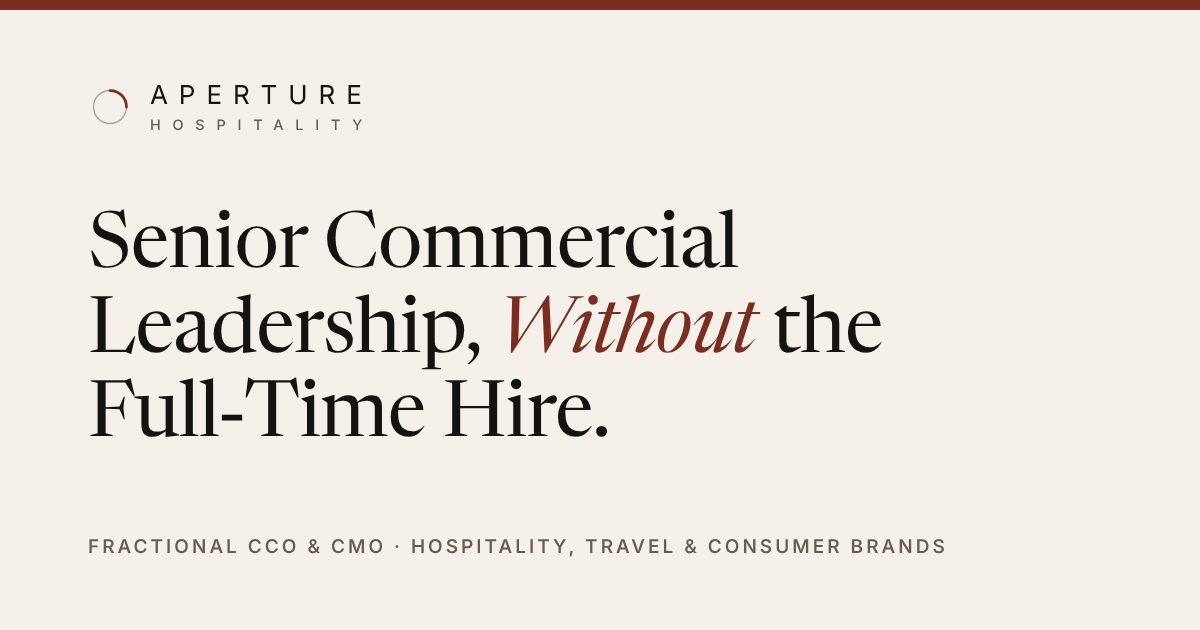
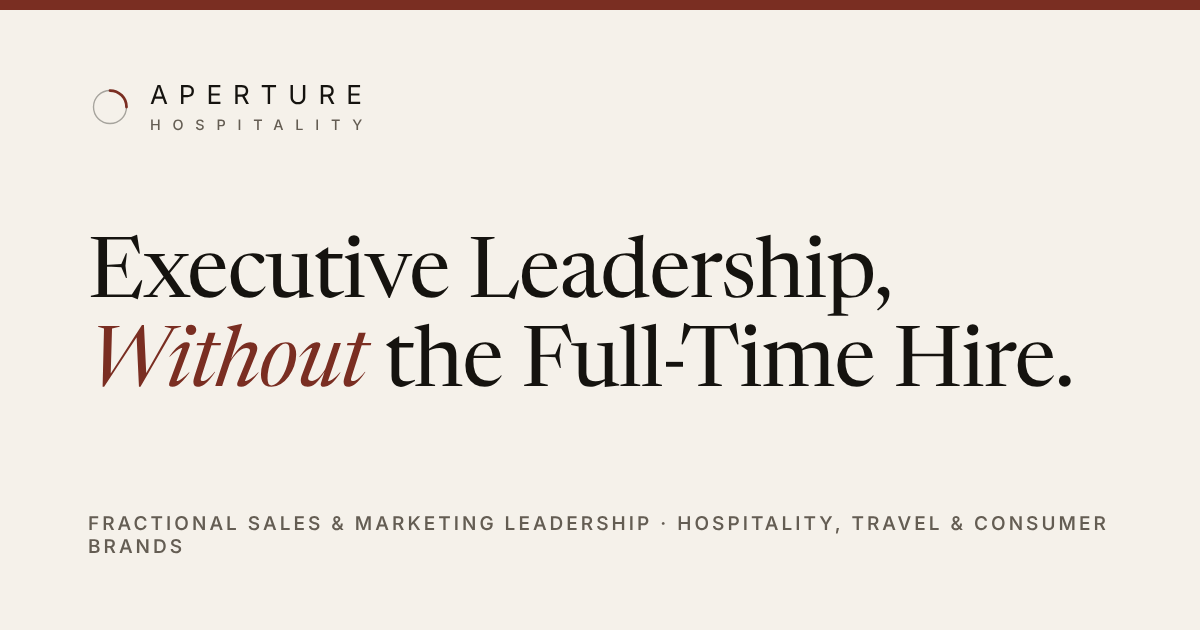
Method page, brand & marketing offers, executive headline
- New /method page and homepage section: Diagnose, Brand Foundation,
  Marketing Plan, Commercial Plan, Operating Rhythm; "Method" in nav;
  /how-we-work now redirects to /method
- New engagement: Brand & Marketing Diagnostic (form option, path 4)
- New service: Brand & Marketing Leadership
- Headline: "Executive Leadership, Without the Full-Time Hire."; kicker,
  title, footer and share image now say sales and marketing leadership

Claude-Session: https://claude.ai/code/session_01RkhWHDrwQDbcSb66oaDfqG

Changed region(s): [[0.0617, 0.3317, 0.8942, 0.6937], [0.0617, 0.8143, 0.925, 0.8746]]

diff --git a/app/page.tsx b/app/page.tsx
@@ -5,6 +5,7 @@ import IntakeForm from '@/components/IntakeForm'
 import BrandMarquee from '@/components/BrandMarquee'
 import DirectLinks from '@/components/DirectLinks'
 import { site } from '@/lib/site'
+import { method } from '@/lib/method'
 
 const who = [
   { t: 'Hospitality & Travel', d: 'Hotels, luxury rentals, travel distribution and experiences, especially growth-stage and PE-backed.' },
@@ -14,6 +15,7 @@ const who = [
 
 const services = [
   { t: 'Commercial Strategy & GTM', d: 'Positioning, segmentation, channel and distribution strategy, pricing architecture, launch plans.' },
+  { t: 'Brand & Marketing Leadership', d: 'Positioning, brand building, demand generation, agency management and the marketing team, measured against revenue.' },
   { t: 'Revenue & Performance Turnarounds', d: 'Commercial diagnostics, market share and RevPAR gaps, unit economics, P&L and operating cadences.' },
   { t: 'Partnerships & Distribution', d: 'Co-branded and brand-funded programs, retail and trade activation, strategic alliances.' },
   { t: 'Models & Investor Readiness', d: 'Business cases, valuations, scenario models, fundraising and board materials, AI-enabled analytics.' },
@@ -111,7 +113,7 @@ const paths = [
   { lead: 'I need a senior leader', em: 'running marketing.', d: 'A fractional CMO: brand, demand and the marketing team, owned and measured against revenue.', meta: 'Fractional CMO · Retainer', href: '/contact?engagement=fractional' },
   { lead: 'I need a senior leader', em: 'running sales.', d: 'A fractional CCO: sales, channels, partnerships and pipeline, with board-level reporting.', meta: 'Fractional CCO · Retainer', href: '/contact?engagement=fractional' },
   { lead: 'I need to understand why', em: 'my business stopped growing.', d: 'A Commercial Diagnostic: where growth is stuck, the three priorities that matter and a 90-day plan.', meta: '4–6 weeks · Fixed fee', href: '/contact?engagement=diagnostic' },
-  { lead: 'I need to understand why my brand', em: 'isn’t connecting with consumers.', d: 'A Brand & Marketing Diagnostic: positioning, audience and message, tested against what customers actually do.', meta: '4–6 weeks · Fixed fee', href: '/contact?engagement=diagnostic' },
+  { lead: 'I need to understand why my brand', em: 'isn’t connecting with consumers.', d: 'A Brand & Marketing Diagnostic: positioning, audience and message, tested against what customers actually do.', meta: '4–6 weeks · Fixed fee', href: '/contact?engagement=brand' },
   { lead: 'I’m not sure yet.', em: 'Help me figure it out.', d: 'Tell us where things stand and we’ll recommend the right place to start.', meta: 'Start a conversation', href: '/contact' },
 ]
 
@@ -130,9 +132,9 @@ export default function Home() {
         <section className="hero">
           <div className="container hero__grid hero__grid--brand">
             <div className="hero__copy">
-              <p className="label label--accent">Fractional Commercial Leadership · Hospitality, Travel &amp; Consumer Brands</p>
-              <h1 className="display">
-                Senior Commercial Leadership, <em>Without</em> the <span style={{ whiteSpace: 'nowrap' }}>Full-Time</span> Hire.
+              <p className="label label--accent">Fractional Sales &amp; Marketing Leadership · Hospitality, Travel &amp; Consumer Brands</p>
+              <h1 className="display hero__h1">
+                <span className="hero__keep">Executive Leadership,</span> <br className="hero__br" /><em>Without</em> the <span style={{ whiteSpace: 'nowrap' }}>Full-Time</span> Hire.
               </h1>
               <p className="hero__sub">
                 Aperture works with CEOs, founders and boards as a fractional Chief Commercial or Marketing Officer,
@@ -215,6 +217,34 @@ export default function Home() {
                 </li>
               ))}
             </ul>
+          </div>
+        </section>
+
+        {/* Method */}
+        <section className="section" id="method" aria-labelledby="method-h">
+          <div className="container">
+            <div className="reveal sec-head">
+              <span className="eyebrow">Our Method</span>
+              <h2 id="method-h" className="h2">Diagnosis Before <em>Deliverable</em></h2>
+              <p className="lede sec-sub">
+                Five steps, in order: find the real problem, build the brand before the marketing plan and the marketing
+                plan before the sales targets, then run it on a weekly rhythm.
+              </p>
+            </div>
+            <ol className="steps reveal">
+              {method.map((m) => (
+                <li key={m.n}>
+                  <Link href={`/method#step-${m.n}`}>
+                    <span className="label num">{m.n}</span>
+                    <span className="steps__t">{m.t}</span>
+                    <span className="steps__d">{m.short}</span>
+                  </Link>
+                </li>
+              ))}
+            </ol>
+            <div className="reveal" style={{ marginTop: '2.25rem' }}>
+              <Link className="link" href="/method">See the full method</Link>
+            </div>
           </div>
         </section>
 

diff --git a/app/method/page.tsx b/app/method/page.tsx
@@ -1,0 +1,97 @@
+import type { Metadata } from 'next'
+import Link from 'next/link'
+import Nav from '@/components/Nav'
+import Footer from '@/components/Footer'
+import ContactCTA from '@/components/ContactCTA'
+import { method, methodFit } from '@/lib/method'
+
+export const metadata: Metadata = {
+  title: 'Our Method',
+  description:
+    'The Aperture Method: diagnose, brand foundation, marketing plan, commercial plan and operating rhythm. Diagnosis before deliverable.',
+  alternates: { canonical: '/method' },
+}
+
+export default function Method() {
+  return (
+    <>
+      <Nav />
+      <main id="main">
+        <section className="hero">
+          <div className="container">
+            <p className="label label--accent" style={{ letterSpacing: '.16em', margin: '0 0 2rem' }}>The Aperture Method</p>
+            <h1 className="display" style={{ maxWidth: '18ch' }}>
+              Diagnosis Before <em>Deliverable.</em>
+            </h1>
+            <p className="hero__sub" style={{ maxWidth: '40rem' }}>
+              Five steps, in order. We find the real problem first, build the brand before the marketing plan and the
+              marketing plan before the sales targets, then put a rhythm in place that keeps the business on the number.
+            </p>
+            <ol className="steps steps--index">
+              {method.map((m) => (
+                <li key={m.n}>
+                  <a href={`#step-${m.n}`}>
+                    <span className="label num">{m.n}</span>
+                    <span className="steps__t">{m.t}</span>
+                  </a>
+                </li>
+              ))}
+            </ol>
+          </div>
+        </section>
+
+        {method.map((m) => (
+          <section className="section" id={`step-${m.n}`} key={m.n} aria-labelledby={`h-${m.n}`}>
+            <div className="container rail">
+              <div className="rail__head reveal">
+                <span className="eyebrow">Step {m.n}</span>
+                <h2 id={`h-${m.n}`} className="h2">{m.t}</h2>
+                <p className="lede" style={{ marginTop: '1.25rem' }}>{m.short}</p>
+              </div>
+              <div className="reveal mstep">
+                <p className="mstep__why">{m.why}</p>
+                <div className="mstep__grid">
+                  <div>
+                    <span className="label">What we do</span>
+                    <ul>
+                      {m.do.map((d) => (
+                        <li key={d}>{d}</li>
+                      ))}
+                    </ul>
+                  </div>
+                  <div className="mstep__get">
+                    <span className="label label--accent">What you get</span>
+                    <p>{m.get}</p>
+                  </div>
+                </div>
+              </div>
+            </div>
+          </section>
+        ))}
+
+        <section className="section" aria-labelledby="fit-h">
+          <div className="container">
+            <div className="reveal sec-head">
+              <span className="eyebrow">Engagements</span>
+              <h2 id="fit-h" className="h2">Where Each Engagement Fits</h2>
+            </div>
+            <ul className="principles reveal">
+              {methodFit.map((f) => (
+                <li key={f.e}>
+                  <span className="label label--accent">{f.s}</span>
+                  <h3 className="h3">{f.e}</h3>
+                  <p>{f.d}</p>
+                </li>
+              ))}
+            </ul>
+            <div className="reveal" style={{ marginTop: '2.5rem' }}>
+              <Link className="link" href="/#start">Choose where to start</Link>
+            </div>
+          </div>
+        </section>
+        <ContactCTA />
+      </main>
+      <Footer />
+    </>
+  )
+}

diff --git a/lib/method.ts b/lib/method.ts
@@ -1,0 +1,49 @@
+// The Aperture Method: five steps, diagnosis before deliverable.
+export const method = [
+  {
+    n: '01',
+    t: 'Diagnose',
+    short: 'Find the real problem before proposing the solution.',
+    why: 'Most growth problems are misdiagnosed. A weak quarter gets a new campaign when the real issue is pricing, channel or a brand nobody can explain. We start by finding the higher-order problem.',
+    do: ['Leadership and team interviews', 'P&L, funnel and channel performance review', 'Customer, competitor and category scan', 'Brand and message audit'],
+    get: 'A diagnostic readout: where growth is stuck, the three priorities that matter and a 90-day action plan.',
+  },
+  {
+    n: '02',
+    t: 'Brand Foundation',
+    short: 'Decide who you are for and why you win.',
+    why: 'A marketing plan cannot come before a brand plan. Without a clear position, every channel tells a different story and spend works against itself.',
+    do: ['Target audiences and the jobs you do for them', 'Positioning, brand promise and proof points', 'Messaging hierarchy and brand standards', 'The story told for customers, partners and your own team'],
+    get: 'A brand foundation the whole business can sell from.',
+  },
+  {
+    n: '03',
+    t: 'Marketing Plan',
+    short: 'Turn the brand into demand.',
+    why: 'Marketing earns its budget when it is planned against revenue, not activity. We build the plan backward from the number.',
+    do: ['Audience priorities and channel mix', 'Campaign calendar, content and creative', 'Agency and partner roles', 'Budget tied to revenue targets and KPIs'],
+    get: 'A 12-month marketing plan and budget, with the KPIs that prove it is working.',
+  },
+  {
+    n: '04',
+    t: 'Commercial Plan',
+    short: 'Turn demand into revenue.',
+    why: 'Demand only matters if sales, channels and pricing are built to convert it. This is where the plan meets the P&L.',
+    do: ['Sales targets, segments and territories', 'Channel, distribution and partnership strategy', 'Pricing architecture and margin', 'Sales tools and the team playbook'],
+    get: 'A commercial plan, pricing architecture and a playbook the team can execute.',
+  },
+  {
+    n: '05',
+    t: 'Operating Rhythm',
+    short: 'Make it run, and measure it.',
+    why: 'Plans fail in week six, not week one. A weekly rhythm keeps the team on the number and surfaces problems while they are still cheap to fix.',
+    do: ['Weekly dashboard and KPIs', 'Meeting cadence and clear owners', 'Hiring, agency and partner management', 'Board and investor reporting'],
+    get: 'An operating cadence that keeps working after we step back.',
+  },
+] as const
+
+export const methodFit = [
+  { e: 'Commercial or Brand & Marketing Diagnostic', s: 'Step 01', d: 'A fixed-fee read on the real problem, the priorities and a 90-day plan.' },
+  { e: 'Fractional CCO / CMO', s: 'Steps 02 to 05', d: 'Senior leadership that builds the plans and runs the rhythm with your team.' },
+  { e: 'Revenue Sprint', s: 'One step, one outcome', d: 'A focused push on a single step: a pricing reset, a launch or a turnaround plan.' },
+] as const

diff --git a/app/components.css b/app/components.css
@@ -39,6 +39,7 @@
 .caps{border-top:1px solid var(--ink);margin:0;padding:0;list-style:none;display:grid}
 @media (min-width:700px){.caps{grid-template-columns:1fr 1fr;column-gap:2.5rem}}
 .caps li{border-bottom:1px solid var(--rule);padding:1.5rem 0}
+@media (min-width:700px){.caps li:last-child:nth-child(odd){grid-column:1/-1}}
 .caps__t{font-family:var(--serif);margin:0 0 .5rem;font-size:1.3rem;font-weight:450;line-height:1.2}
 .caps p{margin:0;font-size:1rem}
 
@@ -238,3 +239,26 @@
 @media (max-width:699px){.paths__head .label:last-child{display:none}.path{grid-template-columns:1fr auto;gap:1rem}.path__meta{grid-column:1;grid-row:2}.path__go{grid-column:2;grid-row:1/span 2;width:44px;height:44px}}
 
 .hero__grid--brand .hero__sub{max-width:40rem}
+
+/* Aperture: method steps */
+.steps{border-top:1px solid var(--ink);margin:0;padding:0;list-style:none;display:grid;counter-reset:none}
+.steps li{border-bottom:1px solid var(--rule)}
+.steps a{display:grid;gap:.35rem;padding:1.25rem 0;text-decoration:none;color:inherit}
+.steps__t{font-family:var(--serif);color:var(--ink);font-size:1.4rem;line-height:1.15;transition:color .2s}
+.steps__d{color:var(--ink-2);font-size:.9375rem}
+.steps a:hover .steps__t{color:var(--accent)}
+@media (min-width:1000px){.steps{grid-template-columns:repeat(5,1fr)}.steps li{border-bottom:0;padding:0 1.5rem 0 0}.steps li+li{border-left:1px solid var(--rule);padding-left:1.5rem}.steps a{padding:1.75rem 0 .5rem}}
+.steps--index{margin-top:2.5rem}
+.steps--index a{padding:1rem 0}
+.mstep__why{font-size:1.125rem;color:var(--ink-2);margin:0 0 2rem;max-width:44rem}
+.mstep__grid{display:grid;gap:2rem;border-top:1px solid var(--ink);padding-top:1.5rem}
+@media (min-width:800px){.mstep__grid{grid-template-columns:1fr 1fr;gap:3rem}}
+.mstep__grid ul{margin:.9rem 0 0;padding:0;list-style:none;display:grid;gap:.55rem}
+.mstep__grid li{padding-left:1.1rem;position:relative}
+.mstep__grid li:before{content:"";position:absolute;left:0;top:.7em;width:.45rem;height:1px;background:var(--accent)}
+.mstep__get{background:var(--paper-2);padding:1.25rem 1.4rem;border-radius:2px;align-self:start}
+.mstep__get p{margin:.6rem 0 0;font-family:var(--serif);font-size:1.25rem;line-height:1.35;color:var(--ink)}
+
+@media (max-width:639px){.hero__br{display:none}}
+@media (min-width:640px){.hero__keep{white-space:nowrap}}
+@media (min-width:900px){.hero__h1{font-size:clamp(3rem,4.9vw,4.1rem)}}

diff --git a/lib/site.ts b/lib/site.ts
@@ -6,9 +6,9 @@ export const site = {
   linkedin: 'https://www.linkedin.com/company/aperture-hospitality/',
   substack: 'https://expandyouraperture.substack.com/',
   personal: 'https://www.brandonmweaver.com',
-  title: 'Aperture Hospitality | Fractional Commercial Leadership',
+  title: 'Aperture Hospitality | Fractional Executive Leadership',
   description:
-    'Fractional Chief Commercial and Marketing Officer for hospitality, travel and consumer brands. Senior commercial leadership, without the full-time hire.',
+    'Fractional Chief Commercial and Marketing Officer for hospitality, travel and consumer brands. Executive leadership, without the full-time hire.',
 }
 
 export const engagements = [
@@ -19,10 +19,16 @@ export const engagements = [
     body: 'A clear read on where growth is stuck, the three priorities that matter and a 90-day action plan.',
   },
   {
+    id: 'brand',
+    title: 'Brand & Marketing Diagnostic',
+    format: '4 to 6 weeks · Fixed fee',
+    body: 'Why the brand isn’t connecting: positioning, audience and message, tested against what customers actually do, with a 90-day marketing plan.',
+  },
+  {
     id: 'fractional',
     title: 'Fractional CCO / CMO',
     format: '1 to 3 days a week · Monthly retainer',
-    body: 'Hands-on leadership of the commercial team, GTM execution, partner deals and board-level reporting.',
+    body: 'Hands-on leadership of sales or marketing: the team, GTM execution, partner deals and board-level reporting.',
   },
   {
     id: 'sprint',

diff --git a/app/sitemap.ts b/app/sitemap.ts
@@ -7,6 +7,7 @@ export default function sitemap(): MetadataRoute.Sitemap {
     { url: site.url, lastModified: now, changeFrequency: 'monthly', priority: 1 },
     { url: `${site.url}/insights`, lastModified: now, changeFrequency: 'monthly', priority: 0.7 },
     { url: `${site.url}/papers`, lastModified: now, changeFrequency: 'monthly', priority: 0.7 },
+    { url: `${site.url}/method`, lastModified: now, changeFrequency: 'monthly', priority: 0.8 },
     { url: `${site.url}/about`, lastModified: now, changeFrequency: 'yearly', priority: 0.7 },
     { url: `${site.url}/spirits`, lastModified: now, changeFrequency: 'monthly', priority: 0.8 },
     { url: `${site.url}/contact`, lastModified: now, changeFrequency: 'yearly', priority: 0.8 },

diff --git a/components/Footer.tsx b/components/Footer.tsx
@@ -8,7 +8,7 @@ export default function Footer() {
         <div>
           <BrandMark />
           <p className="foot__tagline">Let’s expand your aperture.</p>
-          <p className="foot__sub">Fractional commercial leadership for hospitality, travel and consumer brands</p>
+          <p className="foot__sub">Fractional sales and marketing leadership for hospitality, travel and consumer brands</p>
         </div>
         <ul className="foot__links">
           <li><a href={`mailto:${site.email}`}>Email</a></li>

diff --git a/next.config.ts b/next.config.ts
@@ -2,7 +2,7 @@ import type { NextConfig } from 'next'
 
 // Pages retired in the one-pager redesign. Permanent (308) so search engines move their equity.
 const retired: [string, string][] = [
-  ['/how-we-work', '/#start'],
+  ['/how-we-work', '/method'],
   ['/capabilities', '/#services'],
   ['/executive-advisory', '/#services'],
   ['/ai-solutions', '/'],

diff --git a/components/Nav.tsx b/components/Nav.tsx
@@ -7,6 +7,7 @@ import BrandMark from './BrandMark'
 
 const items = [
   { label: 'Services', href: '/#services' },
+  { label: 'Method', href: '/method' },
   { label: 'Insights', href: '/insights' },
   { label: 'About', href: '/about' },
   { label: 'Substack', href: '/papers' },
